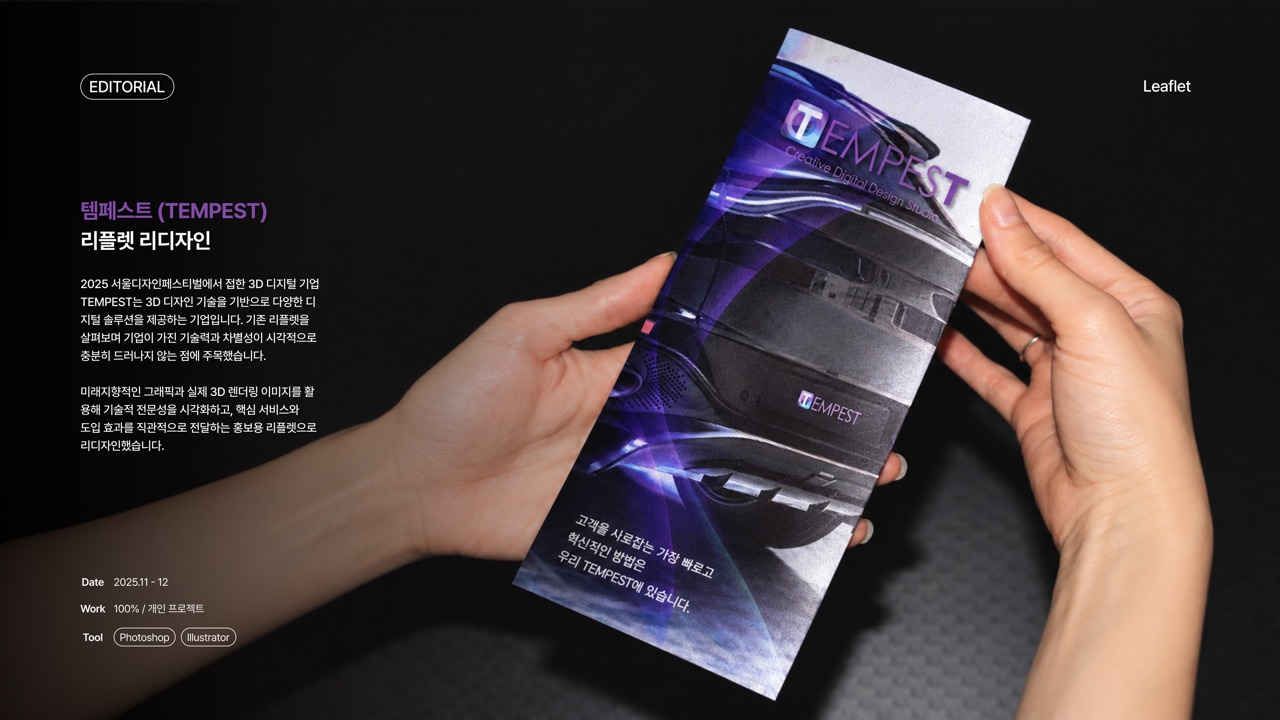
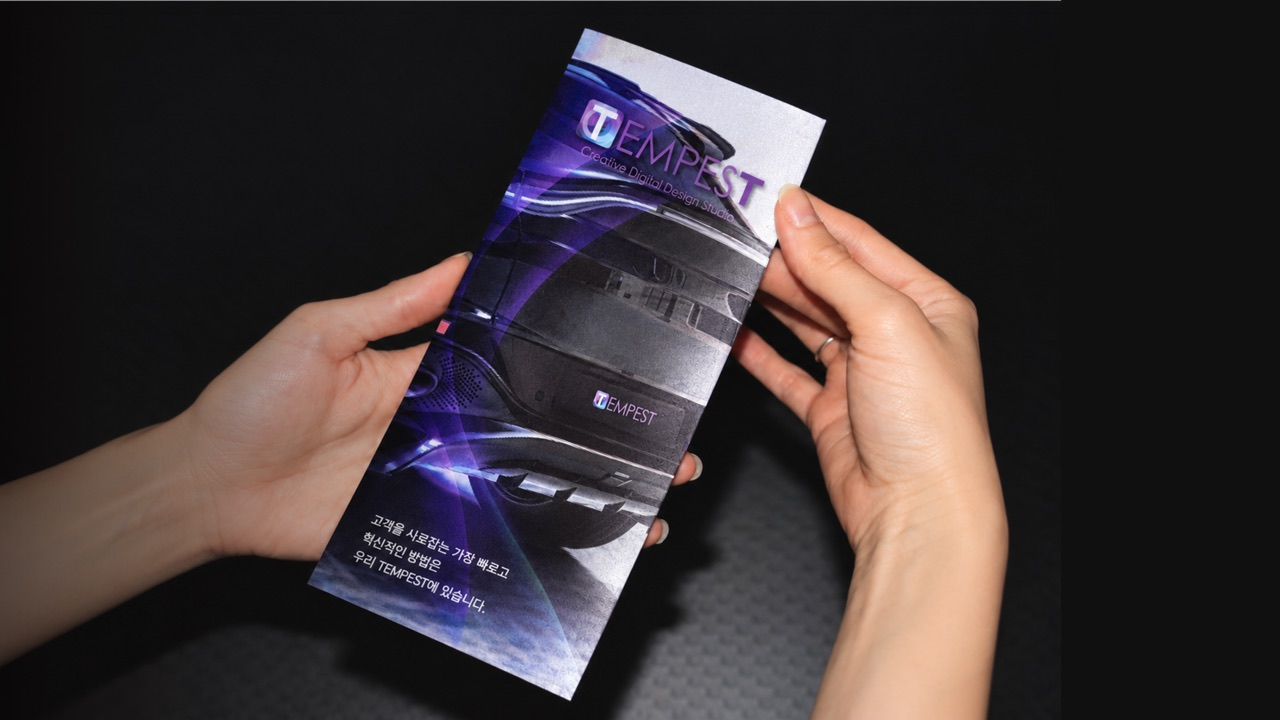
desk-flow: 모니터에는 텍스트 없는 표지, 들어가면 텍스트 표지가 떠오르며 등장
- covers/*-sm.jpg(모니터 배경)를 텍스트 없는 버전 6장으로 교체(프린트카페는 기존 유지)
- 상세(들어간 화면)는 왼쪽 텍스트가 있는 표지 그대로, 살짝 떠오르는 등장 모션 추가

diff --git a/prototype/desk-flow/index.html b/prototype/desk-flow/index.html
@@ -202,6 +202,9 @@ html.cc input,html.cc textarea{cursor:text!important}
 #dBody.cv .cvs{display:grid;place-items:center;padding:20px max(16px,3vw) 0}
 #dBody.cv .cvs img{display:block;width:100%;max-width:calc((100vh - 40px)*16/9);height:auto;box-shadow:0 20px 60px rgba(0,0,0,.5)}
 #dBody.cv .cvm{text-align:center;padding:36px 20px 80px;font:400 15px/1.7 "Noto Sans KR",sans-serif;opacity:.7}
+#dBody.cv .cvs img{animation:cvIn 1s .35s cubic-bezier(.2,.8,.2,1) both}#dBody.cv .cvm{animation:cvIn2 .8s .9s ease-out both}   /* 들어가면 텍스트 표지가 살짝 떠오르며 등장 */
+@keyframes cvIn{from{opacity:0;transform:translateY(28px) scale(.985)}to{opacity:1;transform:none}}@keyframes cvIn2{from{opacity:0}to{opacity:.7}}
+@media (prefers-reduced-motion:reduce){#dBody.cv .cvs img,#dBody.cv .cvm{animation:none}}
 .sr{position:absolute!important;width:1px;height:1px;overflow:hidden;clip:rect(0 0 0 0);white-space:nowrap}
 /* ABOUT 서류 읽기 창 */
 #doc{position:fixed;inset:0;z-index:11;display:grid;place-items:center;padding:16px;background:rgba(15,15,24,.38);-webkit-backdrop-filter:blur(3px);backdrop-filter:blur(3px)}
